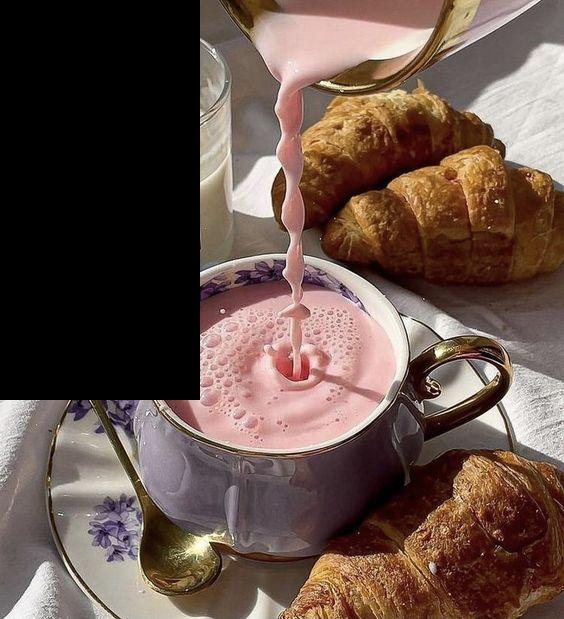
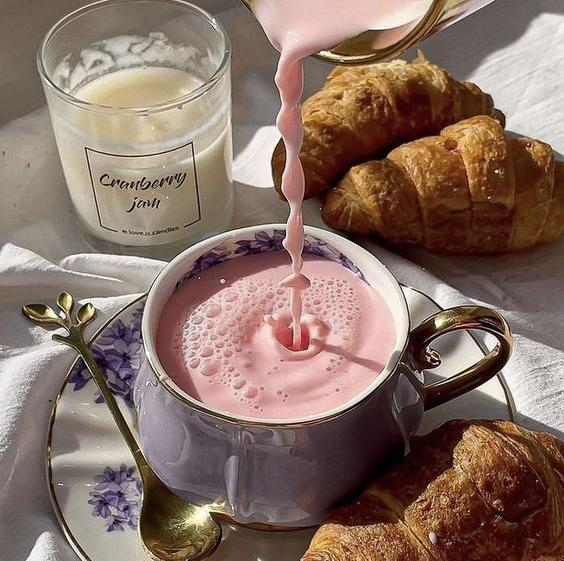
8

diff --git a/lab8/3.py b/lab8/3.py
@@ -1,23 +1,16 @@
 from PIL import Image,ImageDraw,ImageFont
-import numpy as np
-
-
 img = Image.open('picture.jpg')
-img_arr = np.array(img) #Изображения преобразуются в массив Numpy в формате высоты, ширины, канала.
-
-img_arr[0: 400, 0: 200] = (0, 0, 0) #мы удалили бы пиксели в области от (0,0) до (400, 200) (верхняя левая сторона)
-img = Image.fromarray(img_arr) #создает изображение в памяти из объекта obj
+img_crop=img.crop((0, 30, 564, 591))
+img_crop.save('newpicture.jpg')
 name=input('Кого вы хотите поздравить? ')
-w=564
-h=619
 draw_text = ImageDraw.Draw(img) #изображения для рисования
 myFont = ImageFont.truetype('Montserrat-Regular.ttf', 40) # подключаем шрифт
 draw_text.text(
-    (50,50), #расположение
-    '{},поздравляю!'.format(name),
+    (90,50), #расположение
+    '{},поздравляю!'.format(name), #форматирует строки
     font=myFont,
-    stroke_width=2,
-    fill=(0, 0, 255),
+    stroke_width=2, #ширина обводки текста
+    fill=(0, 0, 0),
     )
 img.show()
 img.save('newpicture.png')

diff --git a/lab8/main.py b/lab8/main.py
@@ -1,10 +1,6 @@
 from PIL import Image
-import numpy as np
-
 img = Image.open('picture.jpg')
-img_arr = np.array(img) #Изображения преобразуются в массив Numpy в формате высоты, ширины, канала.
-
-img_arr[0: 400, 0: 200] = (0, 0, 0) #мы удалили бы пиксели в области от (0,0) до (400, 200) (верхняя левая сторона)
-img = Image.fromarray(img_arr)
-img.show()
-img.save('newpicture.jpg')
+img_crop=img.crop((0, 30, 564, 591))
+img_crop.show()
+print(img_crop.size)
+img_crop.save('newpicture.jpg')
